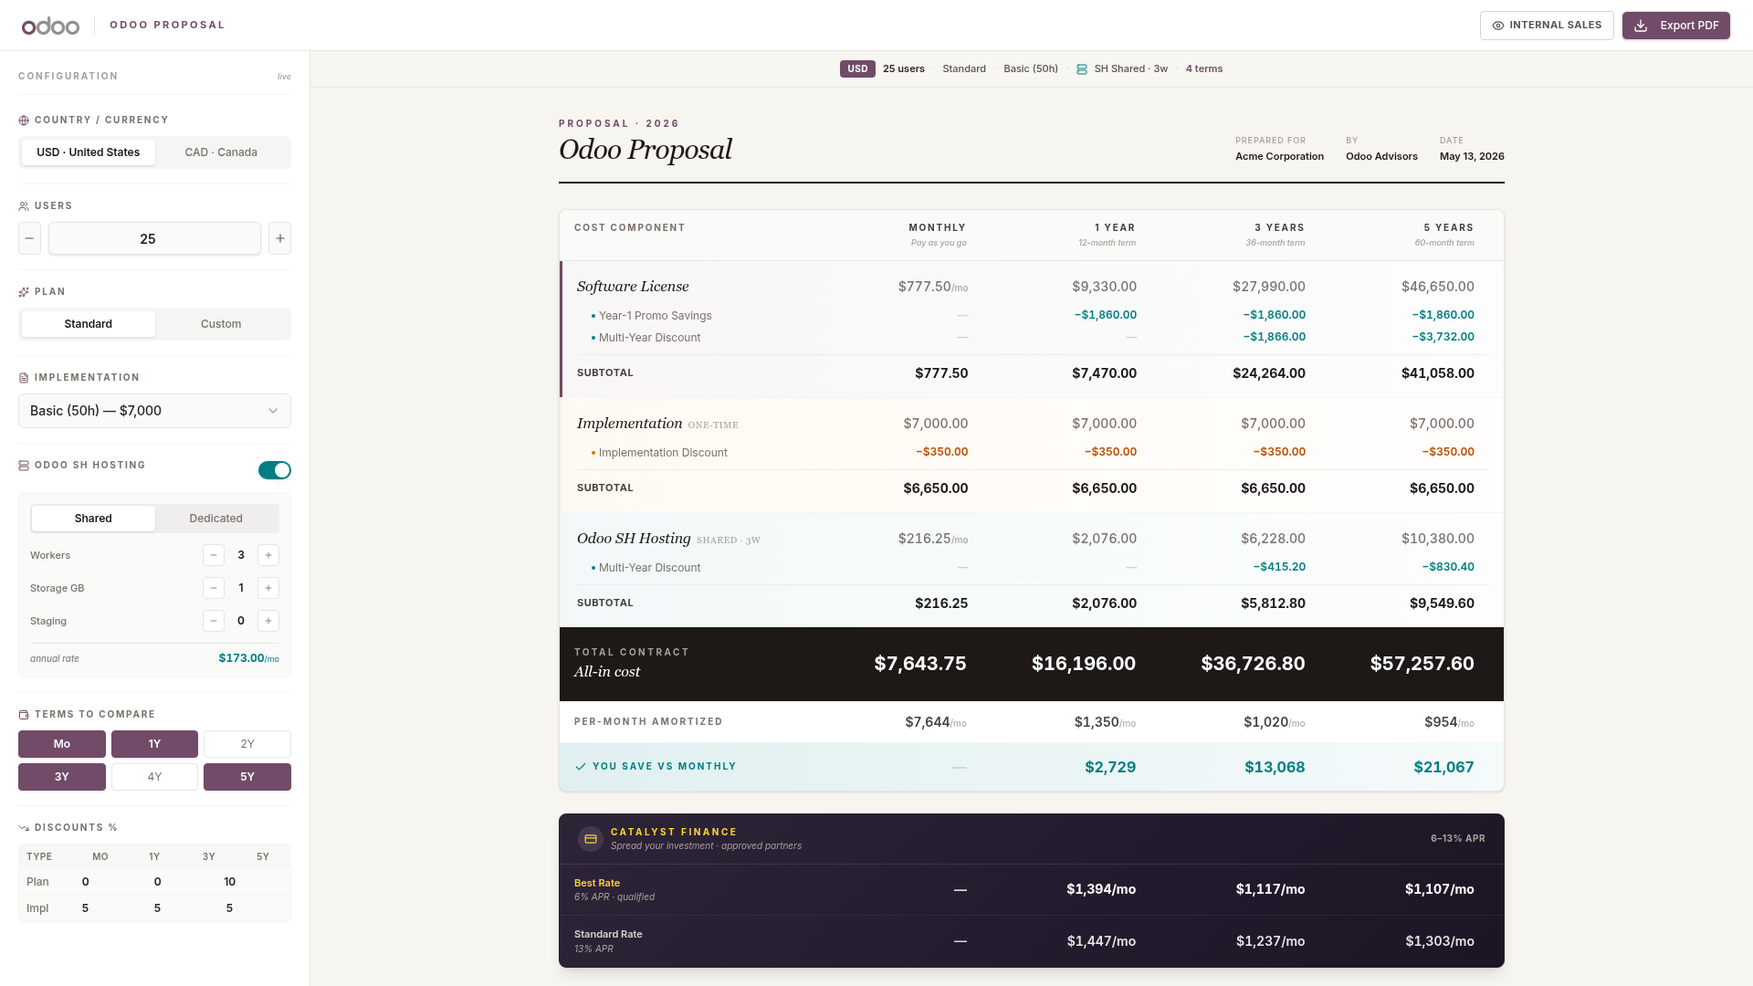
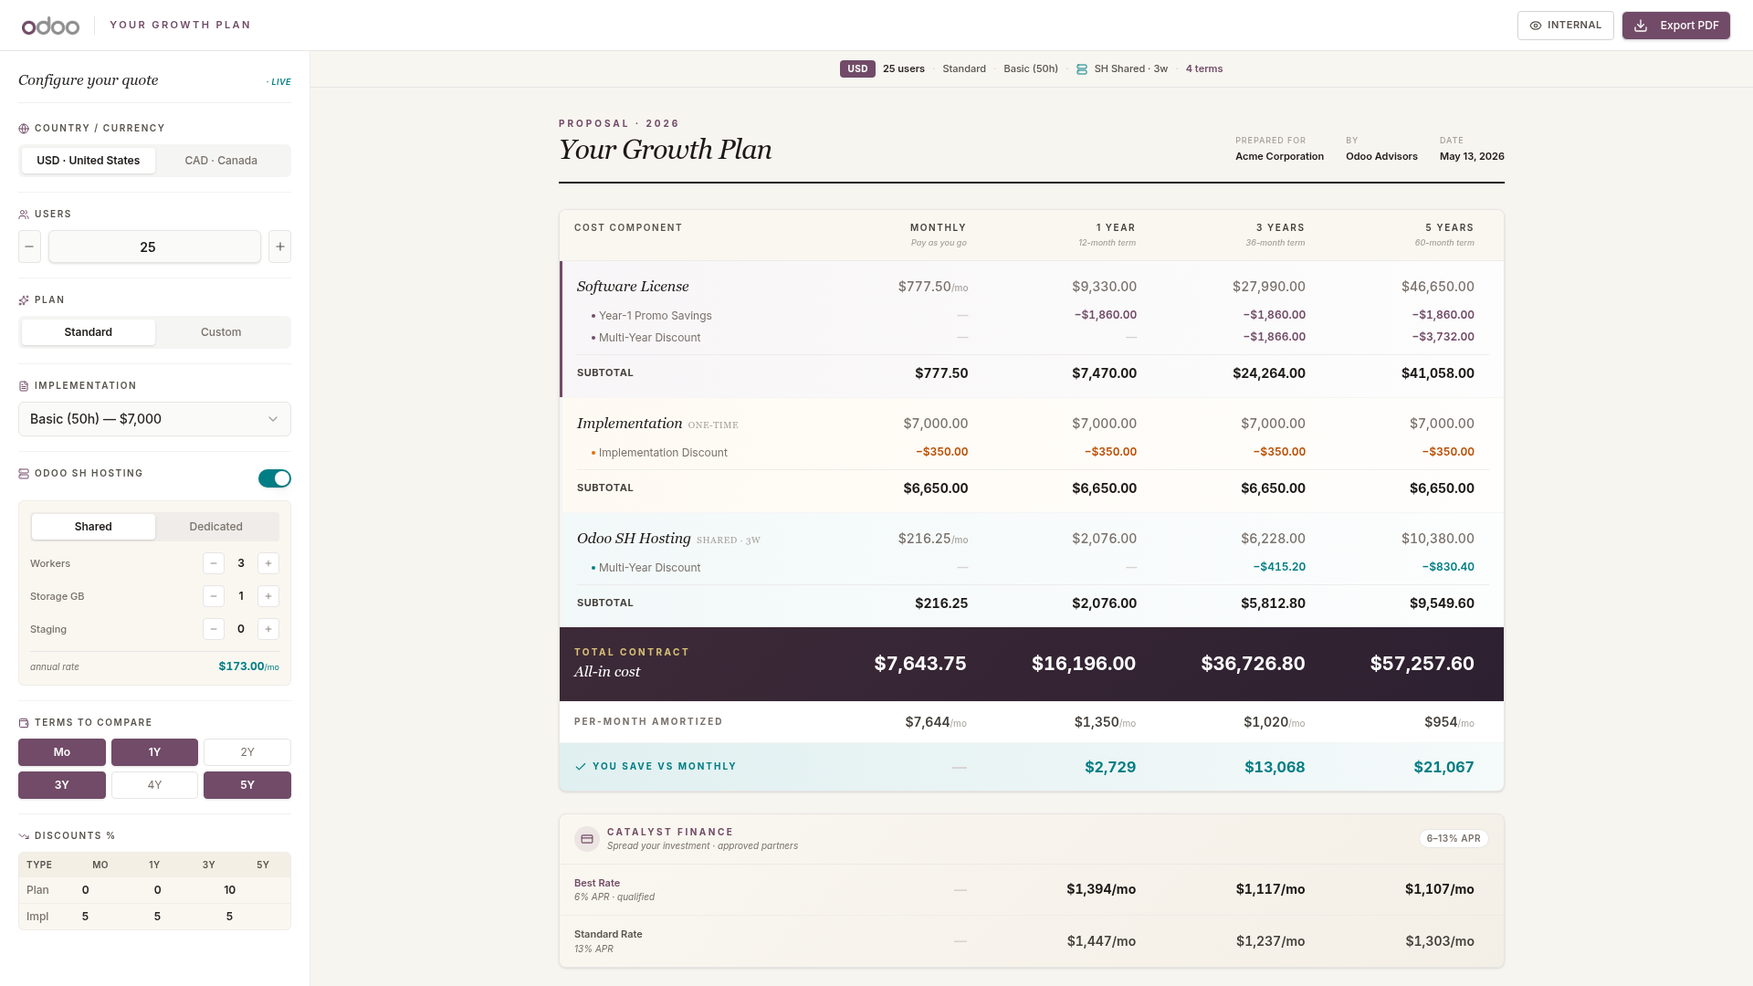
Update Odoo calculator appearance and layout for better branding and usability
Refactor InvestmentCompact component to improve Odoo branding adherence, including UI adjustments for dense layouts, color scheme updates, and typography changes.

Replit-Commit-Author: Agent
Replit-Commit-Session-Id: 3d8e539f-c7fe-4d8f-8fbb-2aa09cfe4ce4
Replit-Commit-Checkpoint-Type: full_checkpoint
Replit-Commit-Event-Id: 2b50ea15-a919-49ad-ad6f-0699218c940f
Replit-Commit-Screenshot-Url: https://storage.googleapis.com/screenshot-production-us-central1/c086b602-bdac-43aa-948f-36a5edc0eb58/3d8e539f-c7fe-4d8f-8fbb-2aa09cfe4ce4/TQv2wC8
Replit-Helium-Checkpoint-Created: true

diff --git a/artifacts/mockup-sandbox/src/components/mockups/odoo-calculator/InvestmentCompact.tsx b/artifacts/mockup-sandbox/src/components/mockups/odoo-calculator/InvestmentCompact.tsx
@@ -263,13 +263,17 @@ export function InvestmentCompact() {
   ]);
 
   const N = quotes.length;
-  const labelColPct = 26;
+  const dense = N >= 5;
+  const labelColPct = dense ? 22 : 26;
   const dataColPct = N > 0 ? (100 - labelColPct) / N : 0;
+  const totalSize = dense ? "text-base" : "text-xl";
+  const cellPadX = dense ? "pr-2" : "pr-4";
+  const sectionPadX = dense ? "px-3" : "px-4";
 
   // — Reusable cells —
   const HCell = ({ children, className = "" }: { children: React.ReactNode; className?: string }) => (
     <div
-      className={`text-right pr-4 ${className}`}
+      className={`text-right ${cellPadX} ${className}`}
       style={{ width: `${dataColPct}%` }}
     >
       {children}
@@ -286,7 +290,7 @@ export function InvestmentCompact() {
   const SectionLabel = ({ children, icon: Icon }: { children: React.ReactNode; icon?: React.ComponentType<{ className?: string }> }) => (
     <div className="flex items-center gap-1.5 mb-2.5">
       {Icon && <Icon className="w-3 h-3 text-[#714B67]" />}
-      <label className="text-[10px] font-bold tracking-[0.18em] text-stone-500 uppercase">
+      <label className="text-[10px] font-semibold tracking-[0.16em] text-stone-600 uppercase">
         {children}
       </label>
     </div>
@@ -312,31 +316,22 @@ export function InvestmentCompact() {
         <div className="flex items-center gap-4">
           <img src="/__mockup/images/odoo-brand/odoo_logo.png" alt="Odoo" className="h-5" />
           <div className="w-px h-5 bg-stone-200" />
-          <span className="text-[11px] font-bold tracking-[0.22em] text-[#714B67] uppercase">
-            Odoo Proposal
+          <span className="text-[11px] font-semibold tracking-[0.22em] text-[#714B67] uppercase">
+            Your Growth Plan
           </span>
         </div>
         <div className="flex items-center gap-2">
           <button
             onClick={() => setInternalView(!internalView)}
             data-testid="button-internal-sales"
-            className={`h-8 px-3 flex items-center gap-1.5 text-[11px] font-bold tracking-wider uppercase rounded border transition-all ${
+            className={`h-8 px-3 flex items-center gap-1.5 text-[11px] font-semibold tracking-wider uppercase rounded border transition-all ${
               internalView
-                ? "bg-stone-900 text-amber-300 border-stone-900 shadow-sm"
-                : "bg-white text-stone-600 border-stone-300 hover:border-stone-400 hover:text-stone-900"
+                ? "bg-[#3D2A38] text-amber-200 border-[#3D2A38] shadow-sm"
+                : "bg-white text-stone-600 border-stone-300 hover:border-[#714B67]/40 hover:text-[#714B67]"
             }`}
           >
-            {internalView ? (
-              <>
-                <EyeOff className="w-3.5 h-3.5" />
-                Internal · MRR/NRR
-              </>
-            ) : (
-              <>
-                <Eye className="w-3.5 h-3.5" />
-                Internal Sales
-              </>
-            )}
+            {internalView ? <EyeOff className="w-3.5 h-3.5" /> : <Eye className="w-3.5 h-3.5" />}
+            Internal
           </button>
           <Button
             size="sm"
@@ -352,19 +347,17 @@ export function InvestmentCompact() {
       {/* ── BODY ────────────────────────────────────────────────────────── */}
       <div className="flex flex-1 overflow-hidden h-[calc(100vh-56px)]">
         {/* ── LEFT SIDEBAR ───────────────────────────────────────────── */}
-        <aside className="w-[340px] bg-white border-r border-stone-200 overflow-y-auto flex-shrink-0 shadow-[2px_0_12px_rgba(0,0,0,0.03)]">
+        <aside className="w-[340px] bg-white border-r border-stone-200/70 overflow-y-auto flex-shrink-0 shadow-[2px_0_12px_rgba(0,0,0,0.02)]">
           <div className="p-5">
-            <div className="flex items-center justify-between mb-5 pb-3 border-b border-stone-100">
-              <h2 className="text-[10px] font-bold tracking-[0.2em] text-stone-400 uppercase">
-                Configuration
-              </h2>
-              <span className="text-[9px] font-medium text-stone-400 italic">
-                live
+            <div className="flex items-baseline justify-between mb-5 pb-3 border-b border-stone-200/60">
+              <h2 className="font-serif italic text-base text-stone-800">Configure your quote</h2>
+              <span className="text-[9px] font-semibold text-[#017E84] italic uppercase tracking-wider">
+                · live
               </span>
             </div>
 
             {/* 1. Country */}
-            <div className="pb-4 mb-4 border-b border-stone-100">
+            <div className="pb-4 mb-4 border-b border-stone-200/50">
               <SectionLabel icon={Globe}>Country / Currency</SectionLabel>
               <div className="flex p-1 bg-stone-100 rounded-md">
                 <SegBtn active={country === "US"} onClick={() => setCountry("US")} testId="segment-country-us">
@@ -377,7 +370,7 @@ export function InvestmentCompact() {
             </div>
 
             {/* 2. Users */}
-            <div className="pb-4 mb-4 border-b border-stone-100">
+            <div className="pb-4 mb-4 border-b border-stone-200/50">
               <SectionLabel icon={Users}>Users</SectionLabel>
               <div className="flex items-center gap-2">
                 <button
@@ -405,7 +398,7 @@ export function InvestmentCompact() {
             </div>
 
             {/* 3. Plan */}
-            <div className="pb-4 mb-4 border-b border-stone-100">
+            <div className="pb-4 mb-4 border-b border-stone-200/50">
               <SectionLabel icon={Sparkles}>Plan</SectionLabel>
               <div className="flex p-1 bg-stone-100 rounded-md">
                 <SegBtn active={plan === "standard"} onClick={() => setPlan("standard")} testId="segment-plan-standard">
@@ -418,7 +411,7 @@ export function InvestmentCompact() {
             </div>
 
             {/* 4. Implementation */}
-            <div className="pb-4 mb-4 border-b border-stone-100">
+            <div className="pb-4 mb-4 border-b border-stone-200/50">
               <SectionLabel icon={FileText}>Implementation</SectionLabel>
               <div className="relative">
                 <select
@@ -438,7 +431,7 @@ export function InvestmentCompact() {
             </div>
 
             {/* 5. SH */}
-            <div className="pb-4 mb-4 border-b border-stone-100">
+            <div className="pb-4 mb-4 border-b border-stone-200/50">
               <div className="flex items-center justify-between mb-3">
                 <SectionLabel icon={Server}>Odoo SH Hosting</SectionLabel>
                 <Switch
@@ -449,7 +442,7 @@ export function InvestmentCompact() {
                 />
               </div>
               {shEnabled && (
-                <div className="bg-stone-50 border border-stone-100 rounded-md p-3 space-y-3">
+                <div className="bg-[#FAF7F1] border border-stone-200/60 rounded-md p-3 space-y-3">
                   <div className="flex p-0.5 bg-stone-200/60 rounded">
                     <SegBtn active={shType === "shared"} onClick={() => setShType("shared")} testId="segment-sh-shared">
                       Shared
@@ -497,7 +490,7 @@ export function InvestmentCompact() {
             </div>
 
             {/* 6. Terms */}
-            <div className="pb-4 mb-4 border-b border-stone-100">
+            <div className="pb-4 mb-4 border-b border-stone-200/50">
               <SectionLabel icon={Wallet}>Terms to Compare</SectionLabel>
               <div className="grid grid-cols-3 gap-1.5">
                 {ALL_TERMS.map((t) => {
@@ -523,9 +516,9 @@ export function InvestmentCompact() {
             {/* 7. Discounts */}
             <div>
               <SectionLabel icon={TrendingDown}>Discounts %</SectionLabel>
-              <div className="bg-stone-50 border border-stone-100 rounded-md overflow-hidden">
+              <div className="bg-[#FAF7F1] border border-stone-200/60 rounded-md overflow-hidden">
                 <div
-                  className="grid text-[10px] bg-stone-100/70 text-stone-500 font-semibold uppercase tracking-wider"
+                  className="grid text-[10px] bg-[#F0EBE0]/70 text-stone-600 font-semibold uppercase tracking-wider"
                   style={{ gridTemplateColumns: `1fr repeat(${activeTerms.length || 1}, 1fr)` }}
                 >
                   <div className="py-1.5 px-2 text-left">Type</div>
@@ -536,7 +529,7 @@ export function InvestmentCompact() {
                 {(["plan", "impl"] as const).map((field, idx) => (
                   <div
                     key={field}
-                    className={`grid text-xs ${idx === 0 ? "border-b border-stone-100" : ""}`}
+                    className={`grid text-xs ${idx === 0 ? "border-b border-stone-200/50" : ""}`}
                     style={{ gridTemplateColumns: `1fr repeat(${activeTerms.length || 1}, 1fr)` }}
                   >
                     <div className="py-1.5 px-2 text-stone-500 font-medium">
@@ -604,7 +597,7 @@ export function InvestmentCompact() {
                   Proposal · 2026
                 </p>
                 <h1 className="text-3xl font-serif italic text-stone-900 tracking-tight leading-none">
-                  Odoo Proposal
+                  Your Growth Plan
                 </h1>
               </div>
               <div className="flex gap-6 text-[11px] text-stone-500 font-medium">
@@ -634,7 +627,7 @@ export function InvestmentCompact() {
                 {/* ── COMPARISON TABLE ───────────────────────────── */}
                 <div className="bg-white rounded-lg border border-stone-200 shadow-sm overflow-hidden">
                   {/* Table header */}
-                  <div className="flex text-[10px] font-bold tracking-[0.18em] uppercase text-stone-500 px-4 py-3 bg-stone-50 border-b border-stone-200">
+                  <div className="flex text-[10px] font-semibold tracking-[0.16em] uppercase text-stone-600 px-4 py-3 bg-[#FAF7F1] border-b border-stone-200/70">
                     <Lbl>Cost Component</Lbl>
                     {quotes.map((q) => (
                       <HCell key={q.termKey}>
@@ -661,12 +654,12 @@ export function InvestmentCompact() {
                       <div className="flex text-xs mb-1.5 items-center">
                         <Lbl className="pl-4 text-stone-500">
                           <span className="inline-flex items-center gap-1">
-                            <span className="w-1 h-1 rounded-full bg-[#017E84]" />
+                            <span className="w-1 h-1 rounded-full bg-[#714B67]" />
                             Year-1 Promo Savings
                           </span>
                         </Lbl>
                         {quotes.map((q) => (
-                          <HCell key={q.termKey} className="text-[#017E84] font-semibold tabular-nums">
+                          <HCell key={q.termKey} className="text-[#714B67] font-semibold tabular-nums">
                             {q.year1Promo > 0 ? `−${fmt(q.year1Promo)}` : dash}
                           </HCell>
                         ))}
@@ -676,12 +669,12 @@ export function InvestmentCompact() {
                       <div className="flex text-xs mb-2.5 items-center">
                         <Lbl className="pl-4 text-stone-500">
                           <span className="inline-flex items-center gap-1">
-                            <span className="w-1 h-1 rounded-full bg-[#017E84]" />
+                            <span className="w-1 h-1 rounded-full bg-[#714B67]" />
                             Multi-Year Discount
                           </span>
                         </Lbl>
                         {quotes.map((q) => (
-                          <HCell key={q.termKey} className="text-[#017E84] font-semibold tabular-nums">
+                          <HCell key={q.termKey} className="text-[#714B67] font-semibold tabular-nums">
                             {q.multiYearSoftware > 0 ? `−${fmt(q.multiYearSoftware)}` : dash}
                           </HCell>
                         ))}
@@ -782,17 +775,20 @@ export function InvestmentCompact() {
                     </div>
                   )}
 
-                  {/* TOTAL CONTRACT — dark hero band, uniform typography across columns */}
-                  <div className="flex items-center px-4 py-5 bg-stone-900 text-white">
+                  {/* TOTAL CONTRACT — deep brand-purple band */}
+                  <div
+                    className={`flex items-center ${sectionPadX} py-5 text-white`}
+                    style={{ background: "linear-gradient(135deg, #3D2A38 0%, #2D2030 100%)" }}
+                  >
                     <Lbl>
-                      <p className="text-[10px] font-bold tracking-[0.25em] text-stone-400 uppercase mb-0.5">
+                      <p className="text-[10px] font-bold tracking-[0.25em] text-amber-200/80 uppercase mb-0.5">
                         Total Contract
                       </p>
                       <p className="font-serif italic text-base text-white">All-in cost</p>
                     </Lbl>
                     {quotes.map((q) => (
-                      <HCell key={q.termKey} className="text-xl font-bold tabular-nums text-white">
-                        {fmt(q.totalContract)}
+                      <HCell key={q.termKey} className={`${totalSize} font-bold tabular-nums text-white`}>
+                        {dense ? fmt0(q.totalContract) : fmt(q.totalContract)}
                       </HCell>
                     ))}
                   </div>
@@ -811,32 +807,27 @@ export function InvestmentCompact() {
                     ))}
                   </div>
 
-                  {/* INTERNAL SALES — MRR / NRR rows (toggle-gated) */}
+                  {/* INTERNAL — MRR / NRR rows (toggle-gated) */}
                   {internalView && (
                     <>
-                      <div className="px-4 py-2 bg-stone-900 border-t border-stone-800 flex items-center justify-between">
-                        <div className="flex items-center gap-1.5">
-                          <Lock className="w-3 h-3 text-amber-300" />
-                          <span className="text-[9px] font-bold tracking-[0.25em] text-amber-300 uppercase">
-                            Internal Sales · Recurring Revenue
-                          </span>
-                        </div>
-                        <span className="text-[9px] text-stone-400 italic">
-                          partner share {Math.round(PARTNER_RECURRING_PCT * 100)}% · not visible to client
+                      <div
+                        className={`${sectionPadX} py-2 flex items-center gap-1.5`}
+                        style={{ background: "linear-gradient(135deg, #3D2A38 0%, #2D2030 100%)", borderTop: "1px solid rgba(255,255,255,0.08)" }}
+                      >
+                        <Lock className="w-3 h-3 text-amber-200" />
+                        <span className="text-[9px] font-bold tracking-[0.25em] text-amber-200 uppercase">
+                          Internal · Recurring Revenue
                         </span>
                       </div>
 
-                      <div className="flex items-center px-4 py-3 bg-stone-50 border-t border-stone-100">
+                      <div className={`flex items-center ${sectionPadX} py-3 bg-[#FAF7F1] border-t border-stone-200/60`}>
                         <Lbl>
                           <div className="flex items-center gap-1.5">
                             <Repeat className="w-3 h-3 text-[#714B67]" />
-                            <p className="text-[10px] font-bold tracking-[0.2em] text-[#714B67] uppercase">
+                            <p className="text-[11px] font-bold tracking-[0.2em] text-[#714B67] uppercase">
                               MRR
                             </p>
                           </div>
-                          <p className="text-[9px] text-stone-400 italic mt-0.5 ml-4">
-                            software + hosting / month
-                          </p>
                         </Lbl>
                         {quotes.map((q) => {
                           const mrr = (q.softwareSubtotal + q.shSubtotal) / q.months;
@@ -848,24 +839,21 @@ export function InvestmentCompact() {
                         })}
                       </div>
 
-                      <div className="flex items-center px-4 py-3 bg-stone-50 border-t border-stone-100">
+                      <div className={`flex items-center ${sectionPadX} py-3 bg-[#FAF7F1] border-t border-stone-200/60`}>
                         <Lbl>
                           <div className="flex items-center gap-1.5">
                             <Wallet className="w-3 h-3 text-[#017E84]" />
-                            <p className="text-[10px] font-bold tracking-[0.2em] text-[#017E84] uppercase">
+                            <p className="text-[11px] font-bold tracking-[0.2em] text-[#017E84] uppercase">
                               NRR
                             </p>
                           </div>
-                          <p className="text-[9px] text-stone-400 italic mt-0.5 ml-4">
-                            net recurring · partner payout
-                          </p>
                         </Lbl>
                         {quotes.map((q) => {
                           const mrr = (q.softwareSubtotal + q.shSubtotal) / q.months;
                           const nrr = mrr * PARTNER_RECURRING_PCT;
                           return (
                             <HCell key={q.termKey} className="text-sm font-bold text-[#017E84] tabular-nums">
-                              {fmt0(nrr)}<span className="text-[10px] text-stone-400 font-normal">/mo</span>
+                              {fmt0(nrr)}
                             </HCell>
                           );
                         })}
@@ -891,50 +879,50 @@ export function InvestmentCompact() {
                   </div>
                 </div>
 
-                {/* ── CATALYST FINANCE CARD ─────────────────────── */}
+                {/* ── CATALYST FINANCE — calm cream card with purple accents ─── */}
                 {quotes.some((q) => q.finLow > 0) && (
                   <div
-                    className="mt-6 rounded-lg overflow-hidden shadow-lg border border-stone-800"
-                    style={{ background: "linear-gradient(135deg, #2D2438 0%, #1B1525 100%)" }}
+                    className="mt-6 rounded-lg overflow-hidden border border-stone-200 shadow-sm"
+                    style={{ background: "linear-gradient(135deg, #FAF7F1 0%, #F4EFE6 100%)" }}
                   >
-                    <div className="px-5 py-3 flex items-center justify-between border-b border-white/10">
+                    <div className={`${sectionPadX} py-3 flex items-center justify-between border-b border-stone-200/70`}>
                       <div className="flex items-center gap-2">
-                        <div className="w-7 h-7 rounded-full bg-white/10 flex items-center justify-center">
-                          <CreditCard className="w-3.5 h-3.5 text-amber-300" />
+                        <div className="w-7 h-7 rounded-full flex items-center justify-center" style={{ background: "rgba(113,75,103,0.1)" }}>
+                          <CreditCard className="w-3.5 h-3.5 text-[#714B67]" />
                         </div>
                         <div>
-                          <p className="text-[10px] font-bold tracking-[0.25em] text-amber-300 uppercase">
+                          <p className="text-[10px] font-bold tracking-[0.25em] text-[#714B67] uppercase">
                             Catalyst Finance
                           </p>
-                          <p className="text-[10px] text-stone-400 italic">
+                          <p className="text-[10px] text-stone-500 italic">
                             Spread your investment · approved partners
                           </p>
                         </div>
                       </div>
-                      <span className="text-[10px] font-bold tracking-wider text-stone-400 uppercase">
+                      <span className="text-[10px] font-semibold tracking-wider text-stone-500 uppercase px-2 py-0.5 rounded-full bg-white border border-stone-200">
                         {APR_LOW * 100}–{APR_HIGH * 100}% APR
                       </span>
                     </div>
 
-                    <div className="flex items-center px-4 py-3 border-b border-white/5">
+                    <div className={`flex items-center ${sectionPadX} py-3 border-b border-stone-200/50`}>
                       <Lbl>
-                        <p className="text-[11px] font-semibold text-amber-300">Best Rate</p>
-                        <p className="text-[10px] text-stone-400 italic">{APR_LOW * 100}% APR · qualified</p>
+                        <p className="text-[11px] font-semibold text-[#714B67]">Best Rate</p>
+                        <p className="text-[10px] text-stone-500 italic">{APR_LOW * 100}% APR · qualified</p>
                       </Lbl>
                       {quotes.map((q) => (
-                        <HCell key={q.termKey} className="text-sm font-bold text-white tabular-nums">
+                        <HCell key={q.termKey} className="text-sm font-bold text-stone-900 tabular-nums">
                           {q.finLow > 0 ? `${fmt0(q.finLow)}/mo` : dash}
                         </HCell>
                       ))}
                     </div>
 
-                    <div className="flex items-center px-4 py-3">
+                    <div className={`flex items-center ${sectionPadX} py-3`}>
                       <Lbl>
-                        <p className="text-[11px] font-semibold text-stone-300">Standard Rate</p>
-                        <p className="text-[10px] text-stone-400 italic">{APR_HIGH * 100}% APR</p>
+                        <p className="text-[11px] font-semibold text-stone-600">Standard Rate</p>
+                        <p className="text-[10px] text-stone-500 italic">{APR_HIGH * 100}% APR</p>
                       </Lbl>
                       {quotes.map((q) => (
-                        <HCell key={q.termKey} className="text-sm font-semibold text-stone-200 tabular-nums">
+                        <HCell key={q.termKey} className="text-sm font-semibold text-stone-700 tabular-nums">
                           {q.finHigh > 0 ? `${fmt0(q.finHigh)}/mo` : dash}
                         </HCell>
                       ))}
